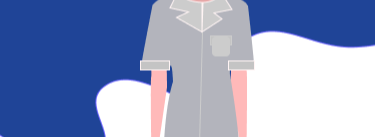
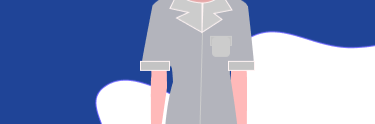
Arreglo zapatos prototipo hombre - mujer

diff --git a/lib/Components/RevisionUniforme/Mujer.dart b/lib/Components/RevisionUniforme/Mujer.dart
@@ -53,12 +53,12 @@ class RevisionUniformeMujer extends StatelessWidget {
           ContenedorImages(
               'assets/images/CuerpoMujer/CamisaMujer.png',
               double.infinity,
-              MediaQuery.of(context).size.width * 0.35,
+              MediaQuery.of(context).size.width * 0.37,
               context,
               "Camisa",
               "Camisa",
               0,
-              MediaQuery.of(context).size.width * 0.09,
+              MediaQuery.of(context).size.width * 0.06,
               MediaQuery.of(context).size.width * 0.13,
               0,
               '#535461',
@@ -66,7 +66,7 @@ class RevisionUniformeMujer extends StatelessWidget {
           ContenedorImages(
               'assets/images/CuerpoMujer/PantalonMujer.png',
               double.infinity,
-              MediaQuery.of(context).size.width * 0.48,
+              MediaQuery.of(context).size.width * 0.55,
               context,
               "Pantalon",
               "Pantalon",
@@ -79,14 +79,14 @@ class RevisionUniformeMujer extends StatelessWidget {
           ContenedorImages(
               'assets/images/CuerpoMujer/ZapatosMujer.png',
               double.infinity,
-              MediaQuery.of(context).size.width * 0.2,
+              MediaQuery.of(context).size.width * 0.22,
               context,
               "Zapatos",
               "Zapatos",
               MediaQuery.of(context).size.width * 0.57,
               0,
               0,
-              0,
+              30,
               '#535461',
               Alignment.bottomLeft),
           Final('assets/images/CuerpoMujer/FinalMujer.png', double.infinity,
